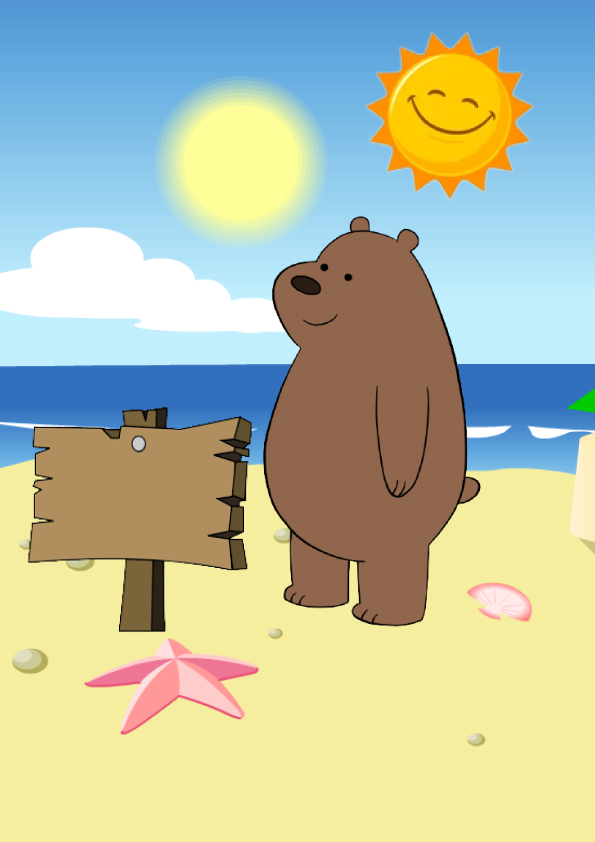
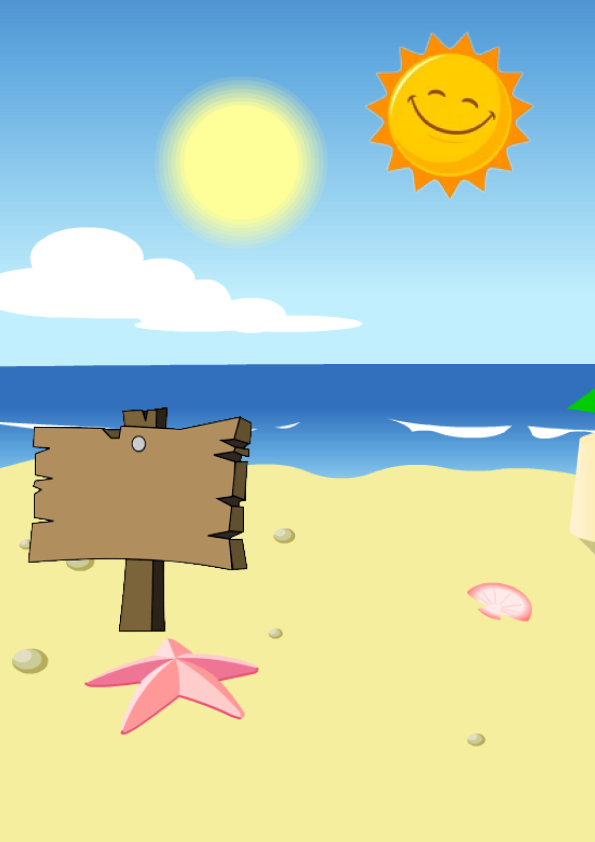
Temperature Conversion Game Backgroud Theme added

Changed region(s): [[0.4235, 0.247, 0.8168, 0.7411]]

diff --git a/public/TemperatureConversionFiles2/script.js b/public/TemperatureConversionFiles2/script.js
@@ -28,17 +28,21 @@
 
 function createGamepad() {
   document.getElementsByTagName('body')[0].innerHTML += `
-  <div class="GamePad" id="GamePad">
-  </div>`
+  <div class="GamePad" id="GamePad"></div>`
 }
 
+var backImage=1;
 function fillBackground(){
   document.getElementsByClassName('GamePad')[0].style.backgroundImage =  "url('./TemperatureConversionFiles2/assets/celsius.png')";
-
+  document.getElementsByClassName('GamePad')[0].innerHTML=`<div id="char"><img src="./TemperatureConversionFiles2/assets/celChar${backImage}.png" alt=""></div>`;
+}
+function addCharacter(no){
+    backImage=no;
+    document.getElementById("char").innerHTML=`<img src="./TemperatureConversionFiles2/assets/celChar${backImage}.png" alt="">`;
 }
 
 function createUnit(){
-  document.getElementsByClassName('GamePad')[0].innerHTML=`<div class="unit">
+  document.getElementsByClassName('GamePad')[0].innerHTML+=`<div class="unit">
   <img src="./TemperatureConversionFiles2/assets/saying.png" >
   <div class="content">
       <h2>Hey, this is</h2>
@@ -67,19 +71,22 @@ function newp(){
   if (selectedOption=="celsius"){
     document.getElementsByClassName('GamePad')[0].style.backgroundImage =  "url('./TemperatureConversionFiles2/assets/celsius.png')";
     document.getElementById("btn1").style.backgroundColor="#FFAC4A";
+    document.getElementById("char").innerHTML=`<img src="./TemperatureConversionFiles2/assets/celChar${backImage}.png" alt="">`;
   }
   else if(selectedOption=="fahrenheit"){
     document.getElementsByClassName('GamePad')[0].style.backgroundImage =  "url('./TemperatureConversionFiles2/assets/fahrenheit.png')";
     document.getElementById("btn1").style.backgroundColor="#1F5F57";
+    document.getElementById("char").innerHTML=`<img src="./TemperatureConversionFiles2/assets/farChar${backImage}.png" alt="">`;
   }
   else if(selectedOption=="kelvin"){
     document.getElementsByClassName('GamePad')[0].style.backgroundImage =  "url('./TemperatureConversionFiles2/assets/kelvin.png')";
     document.getElementById("btn1").style.backgroundColor="#E1828E";
+    document.getElementById("char").innerHTML=`<img src="./TemperatureConversionFiles2/assets/kelChar${backImage}.png" alt="">`;
   }
 }
 function addRestartButton(){
   document.getElementsByClassName('GamePad')[0].innerHTML+=`<div id="rest2">
-    <img src="./BasketballGameFiles/assets/restart.png" onclick="restart()">
+    <img src="./TemperatureConversionFiles2/assets/restart.png" onclick="restart()">
   </div>`;
 }
 function restart(){
@@ -97,18 +104,30 @@ function showCelsiusResult(){
   document.getElementsByClassName('GamePad')[0].style.backgroundImage =  "url('./TemperatureConversionFiles2/assets/celRes.png'"
   document.getElementsByClassName('GamePad')[0].innerHTML=`<h3 class="ansUpper">${fahrenheit.toFixed(2)} F</h3>`;
   document.getElementsByClassName('GamePad')[0].innerHTML+=`<h3 class="ansLower">${kelvin} K</h3>`;
+  document.getElementsByClassName('GamePad')[0].innerHTML+=`<div id="resultImage">
+  <img src="./TemperatureConversionFiles2/assets/farChar${backImage}.png" id="upper">
+  <img src="./TemperatureConversionFiles2/assets/kelChar${backImage}.png" id="lower">
+</div>`;
   addRestartButton();
 }
 function showFahrenheitResult(){
   document.getElementsByClassName('GamePad')[0].style.backgroundImage =  "url('./TemperatureConversionFiles2/assets/farRes.png'"
   document.getElementsByClassName('GamePad')[0].innerHTML=`<h3 class="ansUpper">${celsius.toFixed(2)} C</h3>`;
   document.getElementsByClassName('GamePad')[0].innerHTML+=`<h3 class="ansLower">${kelvin.toFixed(2)} K</h3>`;
+  document.getElementsByClassName('GamePad')[0].innerHTML+=`<div id="resultImage">
+  <img src="./TemperatureConversionFiles2/assets/celChar${backImage}.png" id="upper">
+  <img src="./TemperatureConversionFiles2/assets/kelChar${backImage}.png" id="lower">
+</div>`;
   addRestartButton();
 }
 function showKelvinResult(){
   document.getElementsByClassName('GamePad')[0].style.backgroundImage =  "url('./TemperatureConversionFiles2/assets/kelRes.png'"
   document.getElementsByClassName('GamePad')[0].innerHTML=`<h3 class="ansUpper">${fahrenheit.toFixed(2)} F</h3>`;
   document.getElementsByClassName('GamePad')[0].innerHTML+=`<h3 class="ansLower">${celsius} C</h3>`;
+  document.getElementsByClassName('GamePad')[0].innerHTML+=`<div id="resultImage">
+  <img src="./TemperatureConversionFiles2/assets/farChar${backImage}.png" id="upper">
+  <img src="./TemperatureConversionFiles2/assets/celChar${backImage}.png" id="lower">
+</div>`;
   addRestartButton();
 }
 function getData(){

diff --git a/public/TemperatureConversionFiles2/style.css b/public/TemperatureConversionFiles2/style.css
@@ -26,6 +26,12 @@ body {
   overflow: hidden;
   /* background: red; */
 }
+#char img{
+  position: absolute;
+  height: 280px;
+  top: 120px;
+  left: 200px;
+}
 .unit img{
   width: 50%;
   position: relative;
@@ -99,4 +105,16 @@ select{
   left: 15px;
   bottom: 40px;
   cursor: pointer;
+}
+#resultImage img{
+  height: 200px;
+  position: absolute;
+}
+#upper{
+  left: 260px;
+  top: 50px;
+}
+#lower{
+  left: 260px;
+  top: 320px;
 }

diff --git a/public/TemperatureConversionFiles2/a.html b/public/TemperatureConversionFiles2/a.html
@@ -1,0 +1,15 @@
+<!DOCTYPE html>
+<html lang="en">
+<head>
+    <meta charset="UTF-8">
+    <meta http-equiv="X-UA-Compatible" content="IE=edge">
+    <meta name="viewport" content="width=device-width, initial-scale=1.0">
+    <title>Document</title>
+</head>
+<body>
+    <div id="resultImage">
+        <img src="" id="upper">
+        <img src="" id="lower">
+    </div>
+</body>
+</html>
